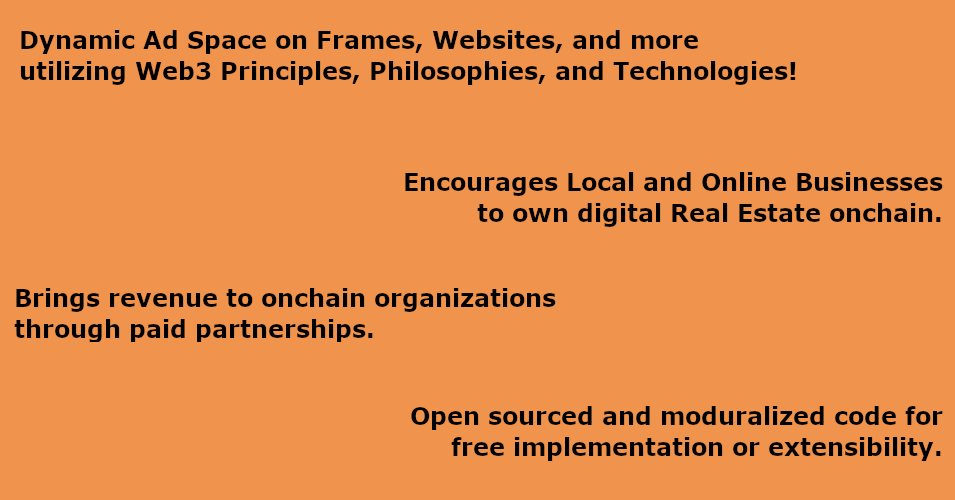
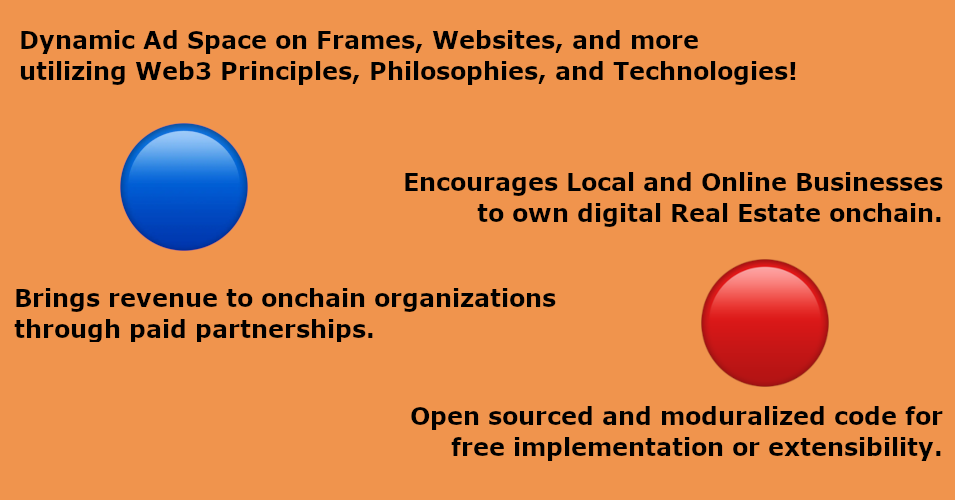
working example

Changed region(s): [[0.7288, 0.51, 0.8806, 0.78], [0.1215, 0.24, 0.2733, 0.51]]

diff --git a/app/api/titleCard/route.tsx b/app/api/titleCard/route.tsx
@@ -29,15 +29,14 @@ export async function GET(request: Request) {
     margin: '0px 5px',
   };
 
-  const baseIconImg: any = <></>;
-  // (
-  //   <img
-  //     src="https://nftstorage.link/ipfs/bafkreiezuhtnp6hdndo5wldpz34nflst3lxnc3ymhi6ta6bwlhruiqzbu4"
-  //     width={32}
-  //     height={32}
-  //     style={{ margin: '0px 2px' }}
-  //   />
-  // );
+  const baseIconImg: any = (
+    <img
+      src="https://nftstorage.link/ipfs/bafkreiezuhtnp6hdndo5wldpz34nflst3lxnc3ymhi6ta6bwlhruiqzbu4"
+      width={32}
+      height={32}
+      style={{ margin: '0px 2px' }}
+    />
+  );
 
   const textStyle: any = {
     textAlign: 'center',
@@ -69,7 +68,7 @@ export async function GET(request: Request) {
   };
 
   const liveDataStyle: any = {
-    fontSize: 18,
+    fontSize: 24,
   };
 
   const liveDataStyleFinal: any = {
@@ -132,95 +131,43 @@ export async function GET(request: Request) {
         <p style={liveDataStyleFinal}>*Live NFT data fetched directly from Base Sepolia!</p>
 
         <div style={{ display: 'flex', flexDirection: 'row' }}>
-          <div style={{ display: 'flex', flexDirection: 'column', margin: '0px -50px' }}>
+          <div style={{ display: 'flex', flexDirection: 'column', margin: '0px 20px' }}>
             <div style={informationRowStyle}>
-              <div style={baseIconGroup}>
-                {baseIconImg}
-                {baseIconImg}
-              </div>
-
               <span style={atxDaoFinalStyle}>ATX DAO</span>
-
-              <div style={baseIconGroup}>
-                {baseIconImg}
-                {baseIconImg}
-              </div>
             </div>
 
             <div style={informationRowStyle}>
-              <div style={baseIconGroup}>
-                {baseIconImg}
-                {baseIconImg}
-              </div>
-
               <span style={isSeekingAStyleFinal}>is seeking a</span>
-              <div style={baseIconGroup}>
-                {baseIconImg}
-                {baseIconImg}
-              </div>
             </div>
 
             <div style={informationRowStyle}>
-              <div style={baseIconGroup}>
-                {baseIconImg}
-                {baseIconImg}
-              </div>
-
               <span style={baseBuilderGrantFinalStyle}>Base Builder Grant</span>
-              <div style={baseIconGroup}>
-                {baseIconImg}
-                {baseIconImg}
-              </div>
             </div>
           </div>
 
-          <div style={{ display: 'flex', flexDirection: 'column', margin: '0px -40px' }}>
+          <div style={{ display: 'flex', flexDirection: 'column', margin: '0px 0px' }}>
             <div style={informationRowStyle}>
-              <div style={baseIconGroup}>
-                {baseIconImg}
-                {baseIconImg}
-              </div>
+              <div style={baseIconGroup}>{baseIconImg}</div>
               <p style={dynamicAdSpaceStyleFinal}>Dynamic NFT Ad Space</p>
-              <div style={baseIconGroup}>
-                {baseIconImg}
-                {baseIconImg}
-              </div>
+              <div style={baseIconGroup}>{baseIconImg}</div>
             </div>
 
             <div style={informationRowStyle}>
-              <div style={baseIconGroup}>
-                {baseIconImg}
-                {baseIconImg}
-              </div>
+              <div style={baseIconGroup}>{baseIconImg}</div>
               <p style={bringingStyleFinal}>Bringing Businesses Onchain</p>
-              <div style={baseIconGroup}>
-                {baseIconImg}
-                {baseIconImg}
-              </div>
+              <div style={baseIconGroup}>{baseIconImg}</div>
             </div>
 
             <div style={informationRowStyle}>
-              <div style={baseIconGroup}>
-                {baseIconImg}
-                {baseIconImg}
-              </div>
+              <div style={baseIconGroup}>{baseIconImg}</div>
               <p style={dynamicAdSpaceStyleFinal}>Revenue Generation</p>
-              <div style={baseIconGroup}>
-                {baseIconImg}
-                {baseIconImg}
-              </div>
+              <div style={baseIconGroup}>{baseIconImg}</div>
             </div>
 
             <div style={informationRowStyle}>
-              <div style={baseIconGroup}>
-                {baseIconImg}
-                {baseIconImg}
-              </div>
+              <div style={baseIconGroup}>{baseIconImg}</div>
               <p style={dynamicAdSpaceStyleFinal}>Open Sourced Implementation</p>
-              <div style={baseIconGroup}>
-                {baseIconImg}
-                {baseIconImg}
-              </div>
+              <div style={baseIconGroup}>{baseIconImg}</div>
             </div>
           </div>
         </div>

diff --git a/app/api/frame2/route.tsx b/app/api/frame2/route.tsx
@@ -1,33 +1,36 @@
-import { FrameRequest, getFrameMessage, getFrameMetadata, getFrameHtmlResponse } from '@coinbase/onchainkit/frame';
+import {
+  FrameRequest,
+  getFrameMessage,
+  getFrameMetadata,
+  getFrameHtmlResponse,
+} from '@coinbase/onchainkit/frame';
 import { NextRequest, NextResponse } from 'next/server';
 import { NEXT_PUBLIC_URL } from '../../config';
 
-
 async function getResponse(req: NextRequest): Promise<NextResponse> {
   return new NextResponse(
-      getFrameHtmlResponse({
-        buttons: [
-     
-          {
-            action: 'link',
-            label: 'Testnet Site',
-            target: 'https://partnership-nfts-nextjs.vercel.app/',
-          },
-          {
-            action: 'link',
-            label: 'Github',
-            target: 'https://github.com/ATXDAO/partnership-nfts',
-          },
-          {
-            label: "Continue",
-          },
-        ],
-        image: {
-          src: `${NEXT_PUBLIC_URL}/screenshotOne.png`,
+    getFrameHtmlResponse({
+      buttons: [
+        {
+          action: 'link',
+          label: 'Demo',
+          target: 'https://partnership-nfts-nextjs.vercel.app/',
         },
-        postUrl: `${NEXT_PUBLIC_URL}/api/frame3`,
-      }),
-    );
+        {
+          action: 'link',
+          label: 'Github',
+          target: 'https://github.com/ATXDAO/partnership-nfts',
+        },
+        {
+          label: 'Continue',
+        },
+      ],
+      image: {
+        src: `${NEXT_PUBLIC_URL}/screenshotOne.png`,
+      },
+      postUrl: `${NEXT_PUBLIC_URL}/api/frame3`,
+    }),
+  );
 }
 
 export async function POST(req: NextRequest): Promise<Response> {

diff --git a/app/api/frame3/route.tsx b/app/api/frame3/route.tsx
@@ -3,33 +3,31 @@ import { NextRequest, NextResponse } from 'next/server';
 import { NEXT_PUBLIC_URL } from '../../config';
 
 async function getResponse(req: NextRequest): Promise<NextResponse> {
+  // if (message?.button === aNumber)
 
-    // if (message?.button === aNumber)
-
-    return new NextResponse(
-      getFrameHtmlResponse({
-        buttons: [
-       
-          {
-            action: 'link',
-            label: 'Testnet Site',
-            target: 'https://partnership-nfts-nextjs.vercel.app/',
-          },
-          {
-            action: 'link',
-            label: 'Github',
-            target: 'https://github.com/ATXDAO/partnership-nfts',
-          },
-          {
-            label: "Continue"
-          },
-        ],
-        image: {
-          src: `${NEXT_PUBLIC_URL}/screenshotTwo.png`,
+  return new NextResponse(
+    getFrameHtmlResponse({
+      buttons: [
+        {
+          action: 'link',
+          label: 'Demo',
+          target: 'https://partnership-nfts-nextjs.vercel.app/',
         },
-        postUrl: `${NEXT_PUBLIC_URL}/api/frame4`,
-      }),
-    );
+        {
+          action: 'link',
+          label: 'Github',
+          target: 'https://github.com/ATXDAO/partnership-nfts',
+        },
+        {
+          label: 'Continue',
+        },
+      ],
+      image: {
+        src: `${NEXT_PUBLIC_URL}/screenshotTwo.png`,
+      },
+      postUrl: `${NEXT_PUBLIC_URL}/api/frame4`,
+    }),
+  );
 }
 
 export async function POST(req: NextRequest): Promise<Response> {
